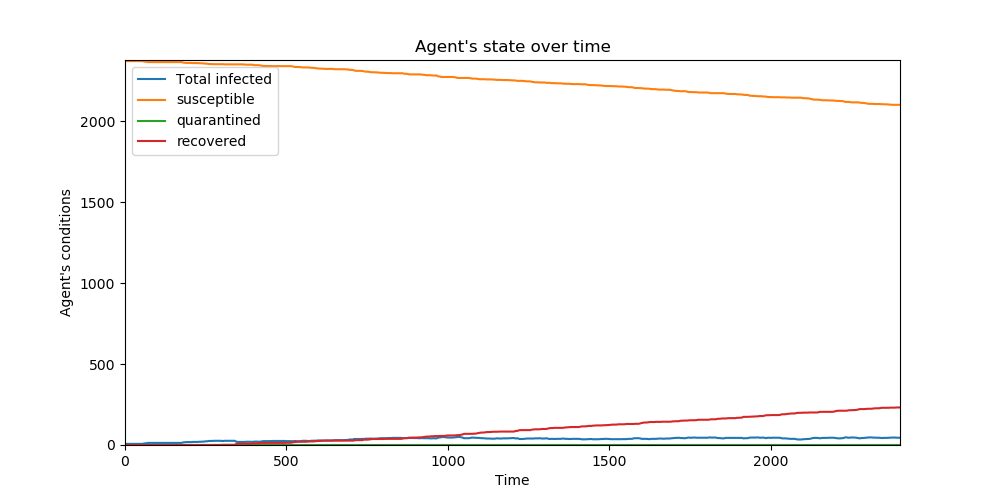
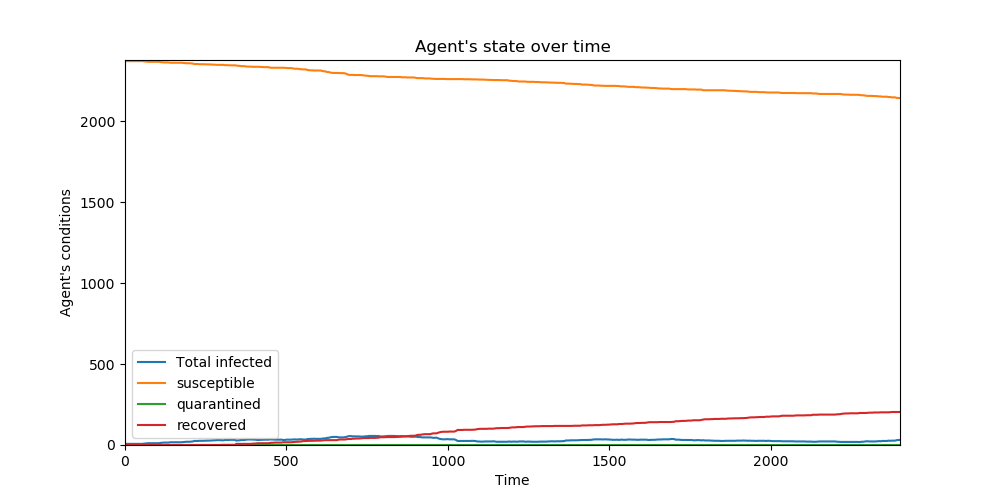
update

Changed region(s): [[0.124, 0.69, 0.899, 0.9], [0.124, 0.12, 0.899, 0.3], [0.713, 0.81, 0.899, 0.84]]

diff --git a/corona_model/start_here.py b/corona_model/start_here.py
@@ -682,7 +682,7 @@ def main():
                 configCopy[categoryKey][specificKey] = specificValue
         R0Count = 1 if index < 1 else 1
         multiCounts = 1
-        if index in [0, 9]: 
+        if index > -1: 
             typeName = "p_" + str(configCopy["Infection"]["baseP"]) + "_"
             modelName=typeName+modelName+"_"+str(simulationGeneration)
             model_framework.simpleCheck(configCopy, days=100, visuals=True, debug=False, modelName=modelName)
